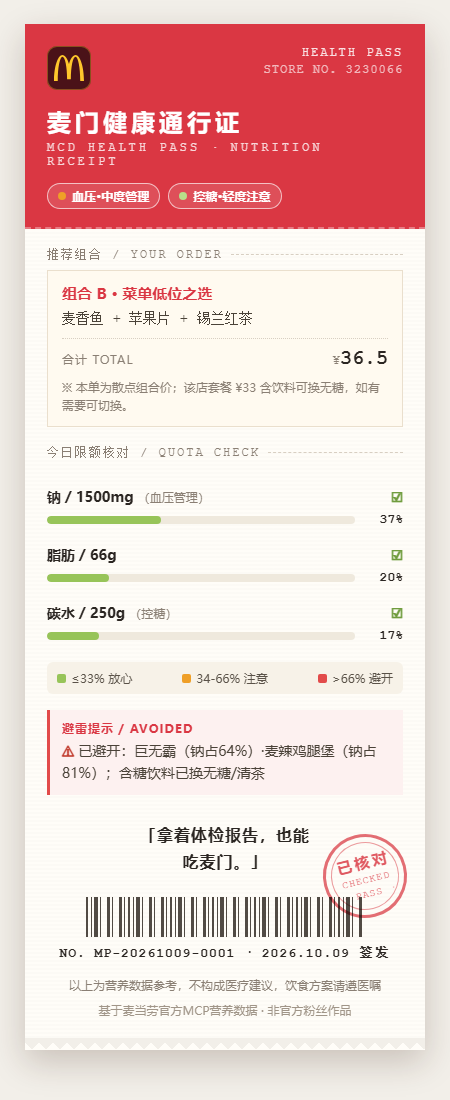
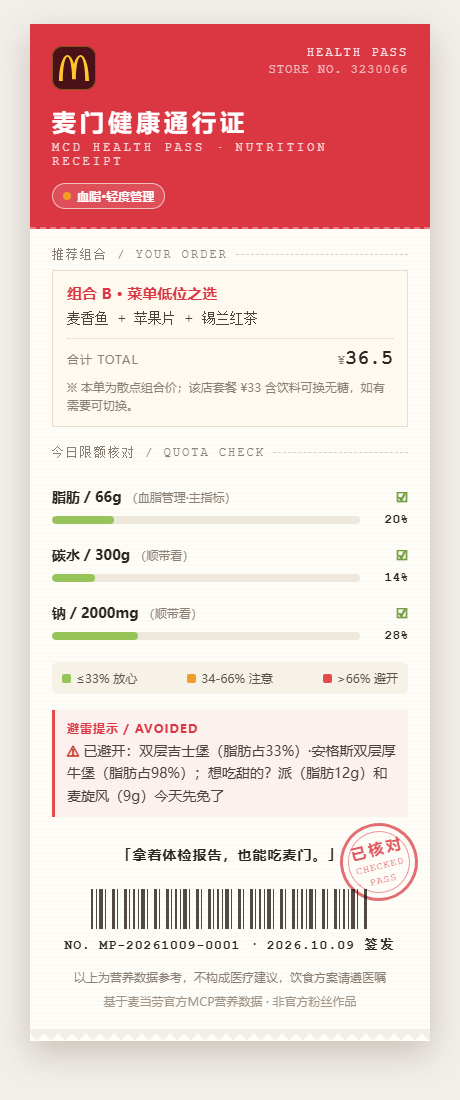
docs: 卡片切换为脂肪偏多档案数据，同步README首屏截图

diff --git a/assets/card_template.html b/assets/card_template.html
@@ -172,8 +172,8 @@
 
   /* 核对章：盖页脚右缘，真实小票章位，不压数据 */
   .stamp {
-    position: absolute; right: 18px; bottom: 120px;
-    width: 84px; height: 84px;
+    position: absolute; right: 12px; bottom: 128px;
+    width: 78px; height: 78px;
     border: 3px solid rgba(218,55,67,.72);
     border-radius: 50%;
     display: flex; flex-direction: column; align-items: center; justify-content: center;
@@ -227,8 +227,9 @@
   .r-foot { padding: 20px 22px 0; position: relative; text-align: center; }
 
   .slogan {
-    font-size: 16px; font-weight: 700; letter-spacing: 1px;
-    color: #2b2622; padding: 0 90px; line-height: 1.7;
+    font-size: 14px; font-weight: 700; letter-spacing: 1px;
+    color: #2b2622; padding: 0; line-height: 1.7;
+    white-space: nowrap;
   }
 
   .barcode {
@@ -290,8 +291,7 @@
     <h1>麦门健康通行证</h1>
     <div class="sub">MCD HEALTH PASS · NUTRITION RECEIPT</div>
     <div class="chips">
-      <span class="chip mid"><i></i>血压·中度管理</span>
-      <span class="chip light"><i></i>控糖·轻度注意</span>
+      <span class="chip mid"><i></i>血脂·轻度管理</span>
     </div>
   </div>
 
@@ -315,17 +315,7 @@
     <div class="quota">
       <div class="q-row">
         <div class="q-line1">
-          <span class="q-name">钠 / 1500mg <span class="cat">（血压管理）</span></span>
-          <span class="q-mark pass">☑</span>
-        </div>
-        <div class="q-line2">
-          <div class="q-track"><div class="q-fill" style="width:37%;background:#97c459;"></div></div>
-          <span class="q-pct">37%</span>
-        </div>
-      </div>
-      <div class="q-row">
-        <div class="q-line1">
-          <span class="q-name">脂肪 / 66g</span>
+          <span class="q-name">脂肪 / 66g <span class="cat">（血脂管理·主指标）</span></span>
           <span class="q-mark pass">☑</span>
         </div>
         <div class="q-line2">
@@ -335,12 +325,22 @@
       </div>
       <div class="q-row">
         <div class="q-line1">
-          <span class="q-name">碳水 / 250g <span class="cat">（控糖）</span></span>
+          <span class="q-name">碳水 / 300g <span class="cat">（顺带看）</span></span>
           <span class="q-mark pass">☑</span>
         </div>
         <div class="q-line2">
-          <div class="q-track"><div class="q-fill" style="width:17%;background:#97c459;"></div></div>
-          <span class="q-pct">17%</span>
+          <div class="q-track"><div class="q-fill" style="width:14%;background:#97c459;"></div></div>
+          <span class="q-pct">14%</span>
+        </div>
+      </div>
+      <div class="q-row">
+        <div class="q-line1">
+          <span class="q-name">钠 / 2000mg <span class="cat">（顺带看）</span></span>
+          <span class="q-mark pass">☑</span>
+        </div>
+        <div class="q-line2">
+          <div class="q-track"><div class="q-fill" style="width:28%;background:#97c459;"></div></div>
+          <span class="q-pct">28%</span>
         </div>
       </div>
     </div>
@@ -355,7 +355,7 @@
     <!-- 避雷提示 -->
     <div class="avoid">
       <div class="t">避雷提示 / AVOIDED</div>
-      <p><span class="warn">⚠</span> 已避开：巨无霸（钠占64%）·麦辣鸡腿堡（钠占81%）；含糖饮料已换无糖/清茶</p>
+      <p><span class="warn">⚠</span> 已避开：双层吉士堡（脂肪占33%）·安格斯双层厚牛堡（脂肪占98%）；想吃甜的？派（脂肪12g）和麦旋风（9g）今天先免了</p>
     </div>
 
   </div>
